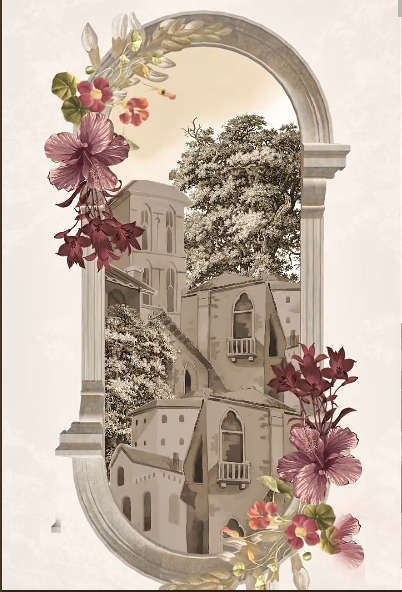
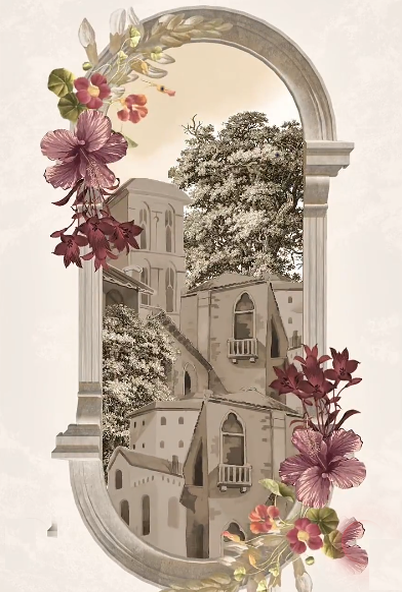
feat: buat animasi masuk responsif di semua ukuran layar (HP, tablet, dan desktop)

diff --git a/src/pages/invitation/InvitationRenderer.tsx b/src/pages/invitation/InvitationRenderer.tsx
@@ -200,32 +200,44 @@ export const InvitationRenderer: React.FC = () => {
       {openingStage === 'arch-video' && (
         <div 
           onClick={handleFinishAnimation}
-          className={`fixed inset-0 z-50 bg-[#f6f2e9] flex items-center justify-center cursor-pointer transition-opacity duration-700 ease-out ${
+          className={`fixed inset-0 z-50 bg-[#f4efdf] flex items-center justify-center cursor-pointer transition-opacity duration-700 ease-out overflow-hidden select-none ${
             isVideoExiting ? 'opacity-0 pointer-events-none' : 'opacity-100 pointer-events-auto'
           }`}
+          style={{
+            backgroundImage: 'radial-gradient(ellipse at center, #faf6ee 0%, #efe7db 100%)'
+          }}
         >
-          {/* Fullscreen Video starting with Arch Illustration and animating through */}
-          <video
-            ref={videoRef}
-            src="/video-cover.mp4"
-            poster="/arch-clean.png"
-            autoPlay
-            playsInline
-            muted
-            className="w-full h-full object-cover object-center"
-            onEnded={handleFinishAnimation}
-          />
+          {/* Ambient subtle paper noise pattern */}
+          <div className="absolute inset-0 opacity-20 pointer-events-none bg-[radial-gradient(#8c7b6c_1px,transparent_1px)] [background-size:20px_20px]" />
 
-          {/* Subtle Skip button */}
+          {/* Responsive Video Container: maintains 880:1920 aspect ratio without clipping on any device */}
+          <div className="relative w-full h-full max-h-[100dvh] flex items-center justify-center p-0 sm:p-2 md:p-4">
+            <video
+              ref={videoRef}
+              src="/video-cover.mp4"
+              poster="/arch-clean.png"
+              autoPlay
+              playsInline
+              muted
+              className="w-auto h-full max-h-[100dvh] max-w-full object-contain object-center transition-transform duration-700 md:rounded-2xl md:shadow-[0_20px_60px_rgba(60,40,20,0.22)]"
+              style={{
+                aspectRatio: '880 / 1920',
+              }}
+              onEnded={handleFinishAnimation}
+            />
+          </div>
+
+          {/* Skip Button: Touch-friendly & clear on mobile & desktop */}
           <button
             onClick={(e) => {
               e.stopPropagation();
               handleFinishAnimation();
             }}
-            className="absolute top-5 right-5 z-30 bg-black/40 hover:bg-black/60 text-white text-xs px-3 py-1.5 rounded-full backdrop-blur-sm transition-all duration-200 uppercase tracking-wider font-medium"
+            className="absolute top-4 right-4 sm:top-6 sm:right-6 z-30 inline-flex items-center gap-1.5 bg-black/45 hover:bg-black/70 active:scale-95 text-white text-xs sm:text-sm px-3.5 py-1.5 sm:px-4 sm:py-2 rounded-full backdrop-blur-md border border-white/20 shadow-lg transition-all duration-200 uppercase tracking-wider font-medium cursor-pointer"
             style={{ fontFamily: "'Montserrat', sans-serif" }}
           >
-            Lewati ✕
+            <span>Lewati</span>
+            <span className="text-white/80">✕</span>
           </button>
         </div>
       )}
